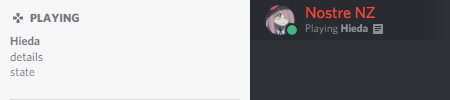
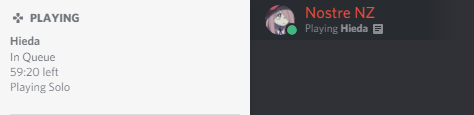
Add more fields and a better UI

diff --git a/DiscordRpcDemo/MainWindow.xaml b/DiscordRpcDemo/MainWindow.xaml
@@ -5,17 +5,31 @@
         xmlns:mc="http://schemas.openxmlformats.org/markup-compatibility/2006"
         xmlns:local="clr-namespace:DiscordRpcDemo"
         mc:Ignorable="d"
-        Title="Discord RPC demo" Height="260" Width="525" WindowStyle="ToolWindow" MinHeight="260" MinWidth="400">
+        Title="Discord RPC demo" Height="413" Width="480" MinHeight="413" MinWidth="390" Background="#FF36393E">
 	<Grid>
-		<Button Content="Initialize" HorizontalAlignment="Left" Margin="10,10,0,0" VerticalAlignment="Top" Width="175" Height="42" Click="Button_Initialize_Click"/>
-		<Button Content="Update" HorizontalAlignment="Left" Margin="10,57,0,0" VerticalAlignment="Top" Width="175" Height="42" Click="Button_Update_Click"/>
-		<Button Content="Shutdown" HorizontalAlignment="Left" Margin="10,151,0,0" VerticalAlignment="Top" Width="175" Height="42" RenderTransformOrigin="0.511,-1.601" Click="Button_Shutdown_Click"/>
-		<Button Content="RunCallbacks" HorizontalAlignment="Left" Margin="10,104,0,0" VerticalAlignment="Top" Width="175" Height="42" Click="Button_RunCallbacks_Click"/>
-		<TextBox x:Name="TextBox_state" Height="23" Margin="190,57,10,0" TextWrapping="Wrap" Text="state" VerticalAlignment="Top" MaxLength="128" MaxLines="1"/>
-		<TextBox x:Name="TextBox_details" Height="23" Margin="190,85,10,0" TextWrapping="Wrap" Text="details" VerticalAlignment="Top" MaxLength="128" MaxLines="1"/>
-		<TextBox x:Name="TextBox_clientId" Height="42" Margin="190,10,10,0" TextWrapping="Wrap" Text="Client ID" VerticalAlignment="Top" MaxLines="1" HorizontalContentAlignment="Center" VerticalContentAlignment="Center" FontSize="18"/>
-		<StatusBar Height="29" VerticalAlignment="Bottom">
-			<Label x:Name="Label_Status" Content="Enter your client ID then press the Initialize button."/>
+		<Button Content="Initialize" Margin="0,10,18,0" VerticalAlignment="Top" Height="42" Click="Button_Initialize_Click" HorizontalAlignment="Right" Width="136" Background="#FF3CB21A" Foreground="White" BorderBrush="{x:Null}" FontSize="14"/>
+		<Button Content="RunCallbacks" Margin="10,0,0,46" Click="Button_RunCallbacks_Click" Height="42" VerticalAlignment="Bottom" HorizontalAlignment="Left" Width="145" Background="#FFF57F08" Foreground="White" BorderBrush="{x:Null}" FontSize="14"/>
+		<Button Content="Shutdown" Margin="0,0,17,46" RenderTransformOrigin="0.511,-1.601" Click="Button_Shutdown_Click" Height="42" VerticalAlignment="Bottom" HorizontalAlignment="Right" Width="145" Background="#FFE82B0D" Foreground="White" BorderBrush="{x:Null}" FontSize="14"/>
+		<Button Content="Update" Margin="160,0,167,46" Click="Button_Update_Click" Height="42" VerticalAlignment="Bottom" Background="#FF337AE0" Foreground="White" BorderBrush="{x:Null}" FontSize="14" HorizontalContentAlignment="Center" VerticalContentAlignment="Center"/>
+		<TextBox x:Name="TextBox_state" Height="23" Margin="111,88,18,0" TextWrapping="Wrap" Text="Playing Solo" VerticalAlignment="Top" MaxLength="128" MaxLines="1" VerticalContentAlignment="Center" Background="#FF484B51" BorderBrush="{x:Null}" Foreground="#FFD1D1D1"/>
+		<TextBox x:Name="TextBox_details" Height="23" Margin="111,60,18,0" TextWrapping="Wrap" Text="In Queue" VerticalAlignment="Top" MaxLength="128" MaxLines="1" VerticalContentAlignment="Center" Background="#FF484B51" BorderBrush="{x:Null}" Foreground="#FFD1D1D1"/>
+		<TextBox x:Name="TextBox_clientId" Height="42" Margin="10,10,159,0" TextWrapping="Wrap" Text="Client ID" VerticalAlignment="Top" MaxLines="1" HorizontalContentAlignment="Center" VerticalContentAlignment="Center" FontSize="18" Background="#FF484B51" BorderBrush="{x:Null}" Foreground="#FFD1D1D1"/>
+		<StatusBar Height="33" VerticalAlignment="Bottom" Background="#FF2F3136" BorderBrush="#FF2F3136">
+			<Label x:Name="Label_Status" Content="Enter your client ID then press the Initialize button." Foreground="#FF72767D"/>
 		</StatusBar>
+		<TextBox x:Name="TextBox_startTimestamp" Height="23" Margin="111,116,18,0" TextWrapping="Wrap" Text="startTimestamp" VerticalAlignment="Top" MaxLength="128" MaxLines="1" VerticalContentAlignment="Center" Background="#FF484B51" BorderBrush="{x:Null}" Foreground="#FFD1D1D1"/>
+		<TextBox x:Name="TextBox_endTimestamp" Height="23" Margin="111,144,18,0" TextWrapping="Wrap" Text="endTimestamp" VerticalAlignment="Top" MaxLength="128" MaxLines="1" VerticalContentAlignment="Center" Background="#FF484B51" BorderBrush="{x:Null}" Foreground="#FFD1D1D1"/>
+		<TextBox x:Name="TextBox_largeImageKey" Height="23" Margin="111,172,18,0" TextWrapping="Wrap" Text="large-img-key" VerticalAlignment="Top" MaxLength="128" MaxLines="1" VerticalContentAlignment="Center" Background="#FF484B51" BorderBrush="{x:Null}" Foreground="#FFD1D1D1"/>
+		<TextBox x:Name="TextBox_largeImageText" Height="23" Margin="111,200,18,0" TextWrapping="Wrap" Text="Large image text" VerticalAlignment="Top" MaxLength="128" MaxLines="1" VerticalContentAlignment="Center" Background="#FF484B51" BorderBrush="{x:Null}" Foreground="#FFD1D1D1"/>
+		<TextBox x:Name="TextBox_smallImageKey" Height="23" Margin="111,228,18,0" TextWrapping="Wrap" Text="small-img-key" VerticalAlignment="Top" MaxLength="128" MaxLines="1" VerticalContentAlignment="Center" Background="#FF484B51" BorderBrush="{x:Null}" Foreground="#FFD1D1D1"/>
+		<TextBox x:Name="TextBox_smallImageText" Height="23" Margin="111,256,18,0" TextWrapping="Wrap" Text="Small image text" VerticalAlignment="Top" MaxLength="128" MaxLines="1" VerticalContentAlignment="Center" Background="#FF484B51" BorderBrush="{x:Null}" Foreground="#FFD1D1D1"/>
+		<Label Content="details" HorizontalAlignment="Left" Margin="10,60,0,0" VerticalAlignment="Top" Width="96" Height="23" Foreground="#FF8F97A0" FontWeight="Bold" FontSize="11"/>
+		<Label Content="state" HorizontalAlignment="Left" Margin="10,88,0,0" VerticalAlignment="Top" Width="96" Height="23" Foreground="#FF8F97A0" FontWeight="Bold" FontSize="11"/>
+		<Label Content="startTimestamp" HorizontalAlignment="Left" Margin="10,116,0,0" VerticalAlignment="Top" Width="96" Height="28" Foreground="#FF8F97A0" FontWeight="Bold" FontSize="11"/>
+		<Label Content="endTimestamp" HorizontalAlignment="Left" Margin="10,144,0,0" VerticalAlignment="Top" Width="96" Height="28" Foreground="#FF8F97A0" FontWeight="Bold" FontSize="11"/>
+		<Label Content="largeImageKey" HorizontalAlignment="Left" Margin="10,172,0,0" VerticalAlignment="Top" Width="96" Height="28" Foreground="#FF8F97A0" FontWeight="Bold" FontSize="11"/>
+		<Label Content="largeImageText" HorizontalAlignment="Left" Margin="10,200,0,0" VerticalAlignment="Top" Width="96" Height="28" Foreground="#FF8F97A0" FontWeight="Bold" FontSize="11"/>
+		<Label Content="smallImageKey" HorizontalAlignment="Left" Margin="10,228,0,0" VerticalAlignment="Top" Width="96" Height="28" Foreground="#FF8F97A0" FontWeight="Bold" FontSize="11"/>
+		<Label Content="smallImageText" HorizontalAlignment="Left" Margin="10,256,0,0" VerticalAlignment="Top" Width="96" Height="28" Foreground="#FF8F97A0" FontWeight="Bold" FontSize="11"/>
 	</Grid>
 </Window>

diff --git a/DiscordRpcDemo/MainWindow.xaml.cs b/DiscordRpcDemo/MainWindow.xaml.cs
@@ -1,4 +1,5 @@
-using System.Windows;
+using System;
+using System.Windows;
 
 namespace DiscordRpcDemo
 {
@@ -16,6 +17,9 @@ namespace DiscordRpcDemo
 		public MainWindow()
 		{
 			InitializeComponent();
+
+			this.TextBox_startTimestamp.Text = this.DateTimeToTimestamp(DateTime.UtcNow).ToString();
+			this.TextBox_endTimestamp.Text = this.DateTimeToTimestamp(DateTime.UtcNow.AddHours(1)).ToString();
 		}
 
 		/*
@@ -27,8 +31,8 @@ namespace DiscordRpcDemo
 		private void Initialize(string clientId)
 		{
 			callbackCalls = 0;
-
 			handlers = new DiscordRpc.EventHandlers();
+
 			handlers.readyCallback = ReadyCallback;
 			handlers.disconnectedCallback += DisconnectedCallback;
 			handlers.errorCallback += ErrorCallback;
@@ -40,8 +44,21 @@ namespace DiscordRpcDemo
 
 		private void UpdatePresence()
 		{
-			presence.state = this.TextBox_state.Text;
 			presence.details = this.TextBox_details.Text;
+			presence.state = this.TextBox_state.Text;
+
+			if (long.TryParse(this.TextBox_startTimestamp.Text, out long startTimestamp)) {
+				presence.startTimestamp = startTimestamp;
+			}
+
+			if (long.TryParse(this.TextBox_endTimestamp.Text, out long endTimestamp)) {
+				presence.endTimestamp = endTimestamp;
+			}
+
+			presence.largeImageKey = this.TextBox_largeImageKey.Text;
+			presence.largeImageText = this.TextBox_largeImageText.Text;
+			presence.smallImageKey = this.TextBox_smallImageKey.Text;
+			presence.smallImageText = this.TextBox_smallImageText.Text;
 
 			DiscordRpc.UpdatePresence(ref presence);
 
@@ -90,6 +107,16 @@ namespace DiscordRpcDemo
 		private void SetStatusBarMessage(string message)
 		{
 			this.Label_Status.Content = message;
+		}
+
+		/// <summary>
+		/// Convert a DateTime object into a timestamp.
+		/// </summary>
+		/// <param name="dt"></param>
+		/// <returns></returns>
+		private long DateTimeToTimestamp(DateTime dt)
+		{
+			return (dt.Ticks - 621355968000000000) / 10000000;
 		}
 
 		/*

diff --git a/README.md b/README.md
@@ -3,8 +3,7 @@
 A quick demontration of the Discord RPC feature with a simple C# WPF app, made from the Unity demo provided in the official repository.
 
 * Official documentation: https://discordapp.com/developers/docs/rich-presence/how-to
-* Official SDK repository:
-https://github.com/discordapp/discord-rpc
+* Official SDK repository: https://github.com/discordapp/discord-rpc
 
 ## How do I use it?
 
@@ -26,8 +25,9 @@ Give it a nice App name, click the "**Create app**" button, then the "**Enable R
 ### 4 - Mess with it
 
 Copy the **Client ID** at the top of the page and paste it in the **Client ID** field in the app.
-Click "**Initialize**" then "**Update presence**" then "**Run callbacks**" and you should see this below your username and in your Discord profile:
+Click "**Initialize**" then "**Update**" and you should see this below your username and in your Discord profile:
 
 ![Discord Profile](https://raw.githubusercontent.com/nostrenz/cshap-discord-rpc-demo/master/screenshots/profile.png)
 
-Of couse you can change what's in the "**state**" in "**details**" fields, press "**Update presence**" then "**Run callbacks**" and after a few seconds it will be changed in your Discord profile.
+Of couse you can change what's in each fields, press "**Update**" and you'll see it changed on Discord after a few seconds.
+Also, hitting **RunCallbacks** should tells you about errors or disconnections if any.
